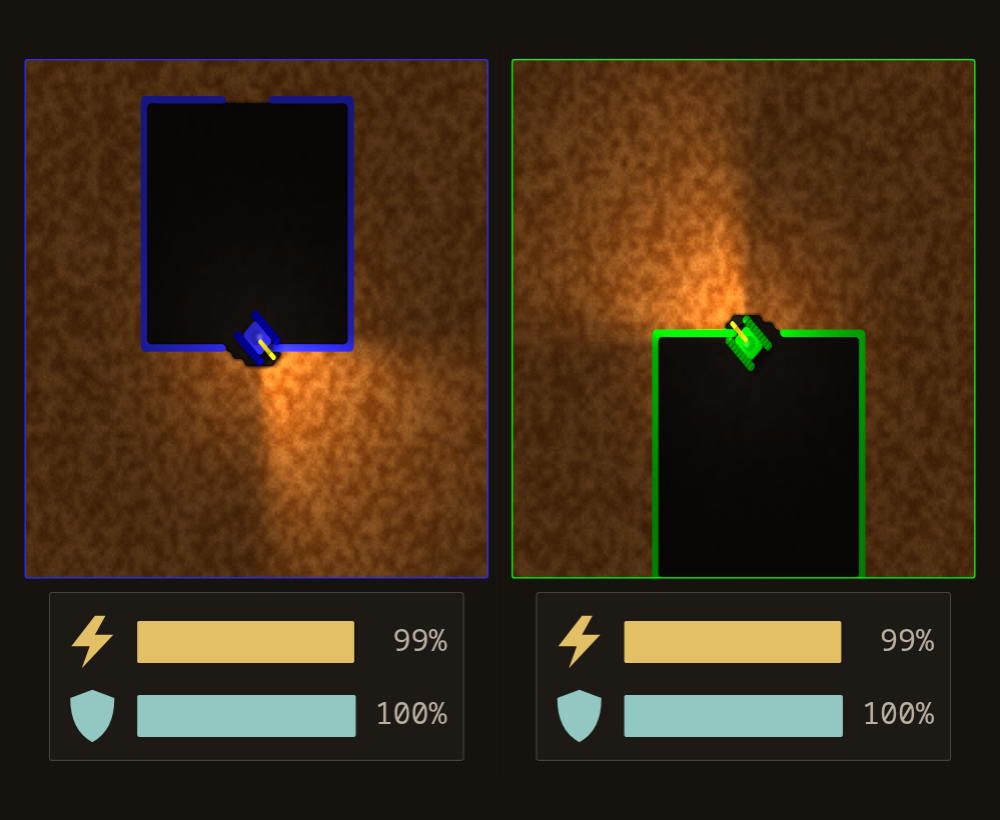
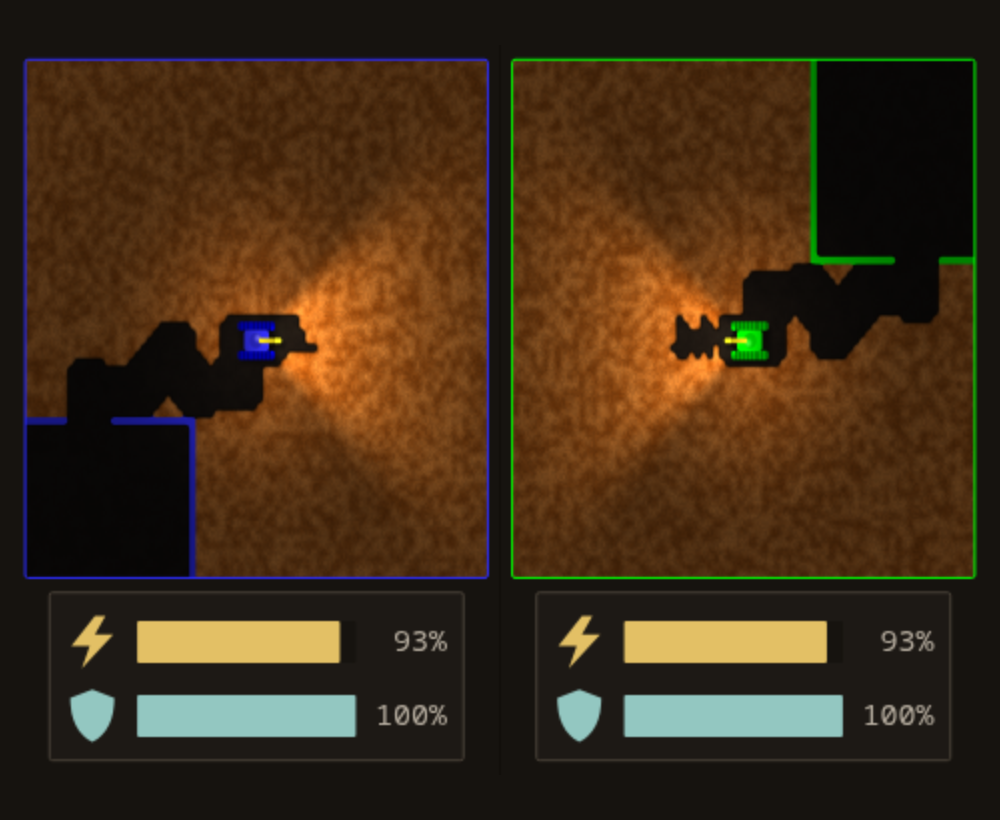
Homepage / README: the split-screen pictures with both tanks out in winding tunnels and firing (not at their base walls)

diff --git a/site/i18n.js b/site/i18n.js
@@ -8,7 +8,7 @@ const L = {
     name: "English",
     "meta.title": "Tunneler Online - the 1991 tunnel-digging tank game, in your browser",
     "skip": "Skip to content",
-    "nav.look": "Look", "look.modern": "modern", "look.original": "original", "hero.cap.m": "Split screen in the modern look - the original DOS look is one switch away in Settings.", "hero.alt.m": "Split screen in the modern look: the BLUE and the GREEN tank leaving their lit bases",
+    "nav.look": "Look", "look.modern": "modern", "look.original": "original", "hero.cap.m": "Split screen in the modern look - the original DOS look is one switch away in Settings.", "hero.alt.m": "Split screen in the modern look: the BLUE and the GREEN tank in winding tunnels, their headlights lighting the dirt, both firing",
     "nav.new": "New in 6.0", "nav.modes": "Game modes", "nav.download": "Download", "nav.source": "Source code", "nav.lang": "Language",
     "hero.by": "by Norko Kaniansky",
     "hero.lead": "Two tanks under the ground. Dig through the dirt, find the other tank and shoot it before your energy runs out. Geoffrey Silverton's DOS game from 1991, rebuilt from its decompiled code so it plays exactly as it did, and extended to eight tanks, teams, computer opponents and online games.",
@@ -16,7 +16,7 @@ const L = {
     "menu.dl": "Download the desktop app", "menu.dl.i": "Windows, Linux and macOS, a few MB, and an Android app. Split screen and skirmish work offline too.",
     "menu.new": "What's new in 6.0", "menu.new.i": "Quick play, the daily challenge with its leaderboard, your own maps, player accounts.",
     "menu.src": "Source code", "menu.src.i": "On GitHub. Public domain (Unlicense): copy it, change it, run your own server.",
-    "hero.alt": "Split screen in the original DOS look: the BLUE and the GREEN tank digging out of their bases",
+    "hero.alt": "Split screen in the original DOS look: the BLUE and the GREEN tank at the end of winding tunnels dug out of their bases, both firing",
     "hero.cap": "Split screen in the original DOS look - one switch away in Settings.",
     "new.h": "New in 6.0",
     "new.lead": "Three new ways to play: <strong>quick play</strong> puts you in an online game in seconds, the <strong>daily challenge</strong> gives everybody the same game for a day, with a leaderboard, and the <strong>map editor</strong> lets you draw your own worlds. Online play now uses free player accounts, and online games carry on through server restarts.",
@@ -96,7 +96,7 @@ const L = {
     name: "Slovenčina",
     "meta.title": "Tunneler Online - tanková hra s hĺbením tunelov z roku 1991 v prehliadači",
     "skip": "Preskočiť na obsah",
-    "nav.look": "Vzhľad", "look.modern": "moderný", "look.original": "pôvodný", "hero.cap.m": "Delená obrazovka v modernom vzhľade - pôvodný vzhľad DOS-u je jeden prepínač v Nastaveniach.", "hero.alt.m": "Delená obrazovka v modernom vzhľade: MODRÝ a ZELENÝ tank opúšťajú osvetlené základne",
+    "nav.look": "Vzhľad", "look.modern": "moderný", "look.original": "pôvodný", "hero.cap.m": "Delená obrazovka v modernom vzhľade - pôvodný vzhľad DOS-u je jeden prepínač v Nastaveniach.", "hero.alt.m": "Delená obrazovka v modernom vzhľade: MODRÝ a ZELENÝ tank v kľukatých tuneloch, svetlomety osvetľujú hlinu, oba strieľajú",
     "nav.new": "Novinky v 6.0", "nav.modes": "Herné režimy", "nav.download": "Stiahnuť", "nav.source": "Zdrojový kód", "nav.lang": "Jazyk",
     "hero.by": "napísal Norko Kaniansky",
     "hero.lead": "Dva tanky pod zemou. Hĺbte tunely v hline, nájdite druhý tank a zostreľte ho skôr, než vám dôjde energia. Hra pre DOS, ktorú v roku 1991 napísal Geoffrey Silverton, prepísaná z dekompilovaného kódu tak, aby sa hrala presne ako vtedy, a rozšírená na osem tankov, tímy, počítačových súperov a hry online.",
@@ -104,7 +104,7 @@ const L = {
     "menu.dl": "Stiahnuť aplikáciu", "menu.dl.i": "Windows, Linux a macOS, pár MB, a aplikácia pre Android. Delená obrazovka a potýčka fungujú aj offline.",
     "menu.new": "Čo je nové vo verzii 6.0", "menu.new.i": "Rýchla hra, denná výzva s rebríčkom, vlastné mapy, hráčske účty.",
     "menu.src": "Zdrojový kód", "menu.src.i": "Na GitHube. Voľné dielo (Unlicense): kopírujte, upravujte, spustite si vlastný server.",
-    "hero.alt": "Delená obrazovka v pôvodnom vzhľade DOS-u: MODRÝ a ZELENÝ tank sa vyhrabávajú zo svojich základní",
+    "hero.alt": "Delená obrazovka v pôvodnom vzhľade DOS-u: MODRÝ a ZELENÝ tank na konci kľukatých tunelov vykopaných zo základní, oba strieľajú",
     "hero.cap": "Delená obrazovka v pôvodnom vzhľade DOS-u - stačí jeden prepínač v Nastaveniach.",
     "new.h": "Novinky vo verzii 6.0",
     "new.lead": "Tri nové spôsoby hry: <strong>rýchla hra</strong> vás za pár sekúnd dostane do hry online, <strong>denná výzva</strong> dá všetkým na celý deň rovnakú hru s rebríčkom a <strong>editor máp</strong> vám dovolí nakresliť si vlastné svety. Hra online teraz používa bezplatné hráčske účty a hry online prežijú aj reštart servera.",
@@ -184,7 +184,7 @@ const L = {
     name: "Čeština",
     "meta.title": "Tunneler Online - tanková hra s hloubením tunelů z roku 1991 v prohlížeči",
     "skip": "Přeskočit na obsah",
-    "nav.look": "Vzhled", "look.modern": "moderní", "look.original": "původní", "hero.cap.m": "Dělená obrazovka v moderním vzhledu - původní vzhled DOSu je jeden přepínač v Nastavení.", "hero.alt.m": "Dělená obrazovka v moderním vzhledu: MODRÝ a ZELENÝ tank opouštějí osvětlené základny",
+    "nav.look": "Vzhled", "look.modern": "moderní", "look.original": "původní", "hero.cap.m": "Dělená obrazovka v moderním vzhledu - původní vzhled DOSu je jeden přepínač v Nastavení.", "hero.alt.m": "Dělená obrazovka v moderním vzhledu: MODRÝ a ZELENÝ tank v klikatých tunelech, světlomety osvětlují hlínu, oba střílejí",
     "nav.new": "Novinky v 6.0", "nav.modes": "Herní režimy", "nav.download": "Stáhnout", "nav.source": "Zdrojový kód", "nav.lang": "Jazyk",
     "hero.by": "napsal Norko Kaniansky",
     "hero.lead": "Dva tanky pod zemí. Hloubejte tunely v hlíně, najděte druhý tank a sestřelte ho dřív, než vám dojde energie. Hra pro DOS, kterou v roce 1991 napsal Geoffrey Silverton, přepsaná z dekompilovaného kódu tak, aby se hrála přesně jako tehdy, a rozšířená na osm tanků, týmy, počítačové soupeře a hry online.",
@@ -192,7 +192,7 @@ const L = {
     "menu.dl": "Stáhnout aplikaci", "menu.dl.i": "Windows, Linux a macOS, pár MB, a aplikace pro Android. Dělená obrazovka a potyčka fungují i offline.",
     "menu.new": "Co je nového ve verzi 6.0", "menu.new.i": "Rychlá hra, denní výzva s žebříčkem, vlastní mapy, hráčské účty.",
     "menu.src": "Zdrojový kód", "menu.src.i": "Na GitHubu. Volné dílo (Unlicense): kopírujte, upravujte, spusťte si vlastní server.",
-    "hero.alt": "Dělená obrazovka v původním vzhledu DOSu: MODRÝ a ZELENÝ tank se prohrabávají ze svých základen",
+    "hero.alt": "Dělená obrazovka v původním vzhledu DOSu: MODRÝ a ZELENÝ tank na konci klikatých tunelů vykopaných ze základen, oba střílejí",
     "hero.cap": "Dělená obrazovka v původním vzhledu DOSu - stačí jeden přepínač v Nastavení.",
     "new.h": "Novinky ve verzi 6.0",
     "new.lead": "Tři nové způsoby hry: <strong>rychlá hra</strong> vás za pár sekund dostane do hry online, <strong>denní výzva</strong> dá všem na celý den stejnou hru s žebříčkem a <strong>editor map</strong> vám dovolí nakreslit si vlastní světy. Hra online teď používá bezplatné hráčské účty a hry online přežijí i restart serveru.",
@@ -272,7 +272,7 @@ const L = {
     name: "Українська",
     "meta.title": "Tunneler Online - танкова гра з копанням тунелів 1991 року у браузері",
     "skip": "Перейти до змісту",
-    "nav.look": "Вигляд", "look.modern": "сучасний", "look.original": "оригінальний", "hero.cap.m": "Розділений екран у сучасному вигляді - оригінальний вигляд DOS вмикається одним перемикачем у Налаштуваннях.", "hero.alt.m": "Розділений екран у сучасному вигляді: СИНІЙ і ЗЕЛЕНИЙ танки виїжджають з освітлених баз",
+    "nav.look": "Вигляд", "look.modern": "сучасний", "look.original": "оригінальний", "hero.cap.m": "Розділений екран у сучасному вигляді - оригінальний вигляд DOS вмикається одним перемикачем у Налаштуваннях.", "hero.alt.m": "Розділений екран у сучасному вигляді: СИНІЙ і ЗЕЛЕНИЙ танки у звивистих тунелях, фари освітлюють землю, обидва стріляють",
     "nav.new": "Нове у 6.0", "nav.modes": "Режими гри", "nav.download": "Завантажити", "nav.source": "Вихідний код", "nav.lang": "Мова",
     "hero.by": "автор: Norko Kaniansky",
     "hero.lead": "Два танки під землею. Прокладайте тунелі в землі, знайдіть інший танк і підстрельте його, поки не скінчилася енергія. Гра для DOS, яку 1991 року написав Geoffrey Silverton, відтворена з декомпільованого коду так, що грається точно як тоді, і розширена до восьми танків, команд, комп'ютерних суперників та ігор онлайн.",
@@ -280,7 +280,7 @@ const L = {
     "menu.dl": "Завантажити застосунок", "menu.dl.i": "Windows, Linux і macOS, кілька МБ, і застосунок для Android. Розділений екран і сутичка працюють і офлайн.",
     "menu.new": "Що нового у версії 6.0", "menu.new.i": "Швидка гра, виклик дня з таблицею лідерів, власні мапи, облікові записи гравців.",
     "menu.src": "Вихідний код", "menu.src.i": "На GitHub. Суспільне надбання (Unlicense): копіюйте, змінюйте, запускайте власний сервер.",
-    "hero.alt": "Розділений екран в оригінальному вигляді DOS: СИНІЙ і ЗЕЛЕНИЙ танки вибираються зі своїх баз",
+    "hero.alt": "Розділений екран в оригінальному вигляді DOS: СИНІЙ і ЗЕЛЕНИЙ танки в кінці звивистих тунелів, викопаних зі своїх баз, обидва стріляють",
     "hero.cap": "Розділений екран в оригінальному вигляді DOS - один перемикач у Налаштуваннях.",
     "new.h": "Нове у версії 6.0",
     "new.lead": "Три нові способи грати: <strong>швидка гра</strong> за кілька секунд приводить вас в онлайн-гру, <strong>виклик дня</strong> дає всім на цілий день однакову гру з таблицею лідерів, а <strong>редактор мап</strong> дозволяє намалювати власні світи. Онлайн-гра тепер використовує безкоштовні облікові записи гравців, а онлайн-ігри переживають перезапуск сервера.",
@@ -360,7 +360,7 @@ const L = {
     name: "Русский",
     "meta.title": "Tunneler Online - танковая игра с копанием туннелей 1991 года в браузере",
     "skip": "Перейти к содержанию",
-    "nav.look": "Вид", "look.modern": "современный", "look.original": "оригинальный", "hero.cap.m": "Разделённый экран в современном виде - оригинальный вид DOS включается одним переключателем в Настройках.", "hero.alt.m": "Разделённый экран в современном виде: СИНИЙ и ЗЕЛЁНЫЙ танки выезжают из освещённых баз",
+    "nav.look": "Вид", "look.modern": "современный", "look.original": "оригинальный", "hero.cap.m": "Разделённый экран в современном виде - оригинальный вид DOS включается одним переключателем в Настройках.", "hero.alt.m": "Разделённый экран в современном виде: СИНИЙ и ЗЕЛЁНЫЙ танки в извилистых туннелях, фары освещают землю, оба стреляют",
     "nav.new": "Новое в 6.0", "nav.modes": "Режимы игры", "nav.download": "Скачать", "nav.source": "Исходный код", "nav.lang": "Язык",
     "hero.by": "автор: Norko Kaniansky",
     "hero.lead": "Два танка под землёй. Копайте туннели в земле, найдите другой танк и подстрелите его, пока не кончилась энергия. Игра для DOS, которую в 1991 году написал Geoffrey Silverton, воссозданная из декомпилированного кода так, что играется точно как тогда, и расширенная до восьми танков, команд, компьютерных соперников и игр онлайн.",
@@ -368,7 +368,7 @@ const L = {
     "menu.dl": "Скачать приложение", "menu.dl.i": "Windows, Linux и macOS, несколько МБ, и приложение для Android. Разделённый экран и схватка работают и офлайн.",
     "menu.new": "Что нового в версии 6.0", "menu.new.i": "Быстрая игра, испытание дня с таблицей лидеров, свои карты, учётные записи игроков.",
     "menu.src": "Исходный код", "menu.src.i": "На GitHub. Общественное достояние (Unlicense): копируйте, меняйте, запускайте свой сервер.",
-    "hero.alt": "Разделённый экран в оригинальном виде DOS: СИНИЙ и ЗЕЛЁНЫЙ танки выбираются из своих баз",
+    "hero.alt": "Разделённый экран в оригинальном виде DOS: СИНИЙ и ЗЕЛЁНЫЙ танки в конце извилистых туннелей, вырытых из своих баз, оба стреляют",
     "hero.cap": "Разделённый экран в оригинальном виде DOS - один переключатель в Настройках.",
     "new.h": "Новое в версии 6.0",
     "new.lead": "Три новых способа играть: <strong>быстрая игра</strong> за несколько секунд приводит вас в онлайн-игру, <strong>испытание дня</strong> даёт всем на целый день одинаковую игру с таблицей лидеров, а <strong>редактор карт</strong> позволяет нарисовать собственные миры. Онлайн-игра теперь использует бесплатные учётные записи игроков, а онлайн-игры переживают перезапуск сервера.",

diff --git a/site/index.html b/site/index.html
@@ -292,8 +292,8 @@
       <p class="info" id="info" aria-live="polite" data-i18n="menu.play.i">Nothing to install. Online games need a free account (a username and a password); split screen and skirmish don't. The free server can take up to a minute to wake up.</p>
     </div>
     <figure class="shot">
-      <a class="zoom th-o" href="img/split-screen.png"><img src="img/split-screen.png" width="984" height="742" loading="lazy" data-i18n-alt="hero.alt" alt="Split screen in the original DOS look: the BLUE and the GREEN tank digging out of their bases"></a>
-      <a class="zoom th-m" href="img/modern-split-screen.jpg"><img src="img/modern-split-screen.jpg" width="964" height="714" loading="lazy" data-i18n-alt="hero.alt.m" alt="Split screen in the modern look: the BLUE and the GREEN tank leaving their lit bases"></a>
+      <a class="zoom th-o" href="img/split-screen.png"><img src="img/split-screen.png" width="984" height="742" loading="lazy" data-i18n-alt="hero.alt" alt="Split screen in the original DOS look: the BLUE and the GREEN tank at the end of winding tunnels dug out of their bases, both firing"></a>
+      <a class="zoom th-m" href="img/modern-split-screen.jpg"><img src="img/modern-split-screen.jpg" width="964" height="714" loading="lazy" data-i18n-alt="hero.alt.m" alt="Split screen in the modern look: the BLUE and the GREEN tank in winding tunnels, their headlights lighting the dirt, both firing"></a>
       <figcaption><span class="th-o" data-i18n="hero.cap">Split screen in the original DOS look - one switch away in Settings.</span><span class="th-m" data-i18n="hero.cap.m">Split screen in the modern look - the original DOS look is one switch away in Settings.</span></figcaption>
     </figure>
   </div>
